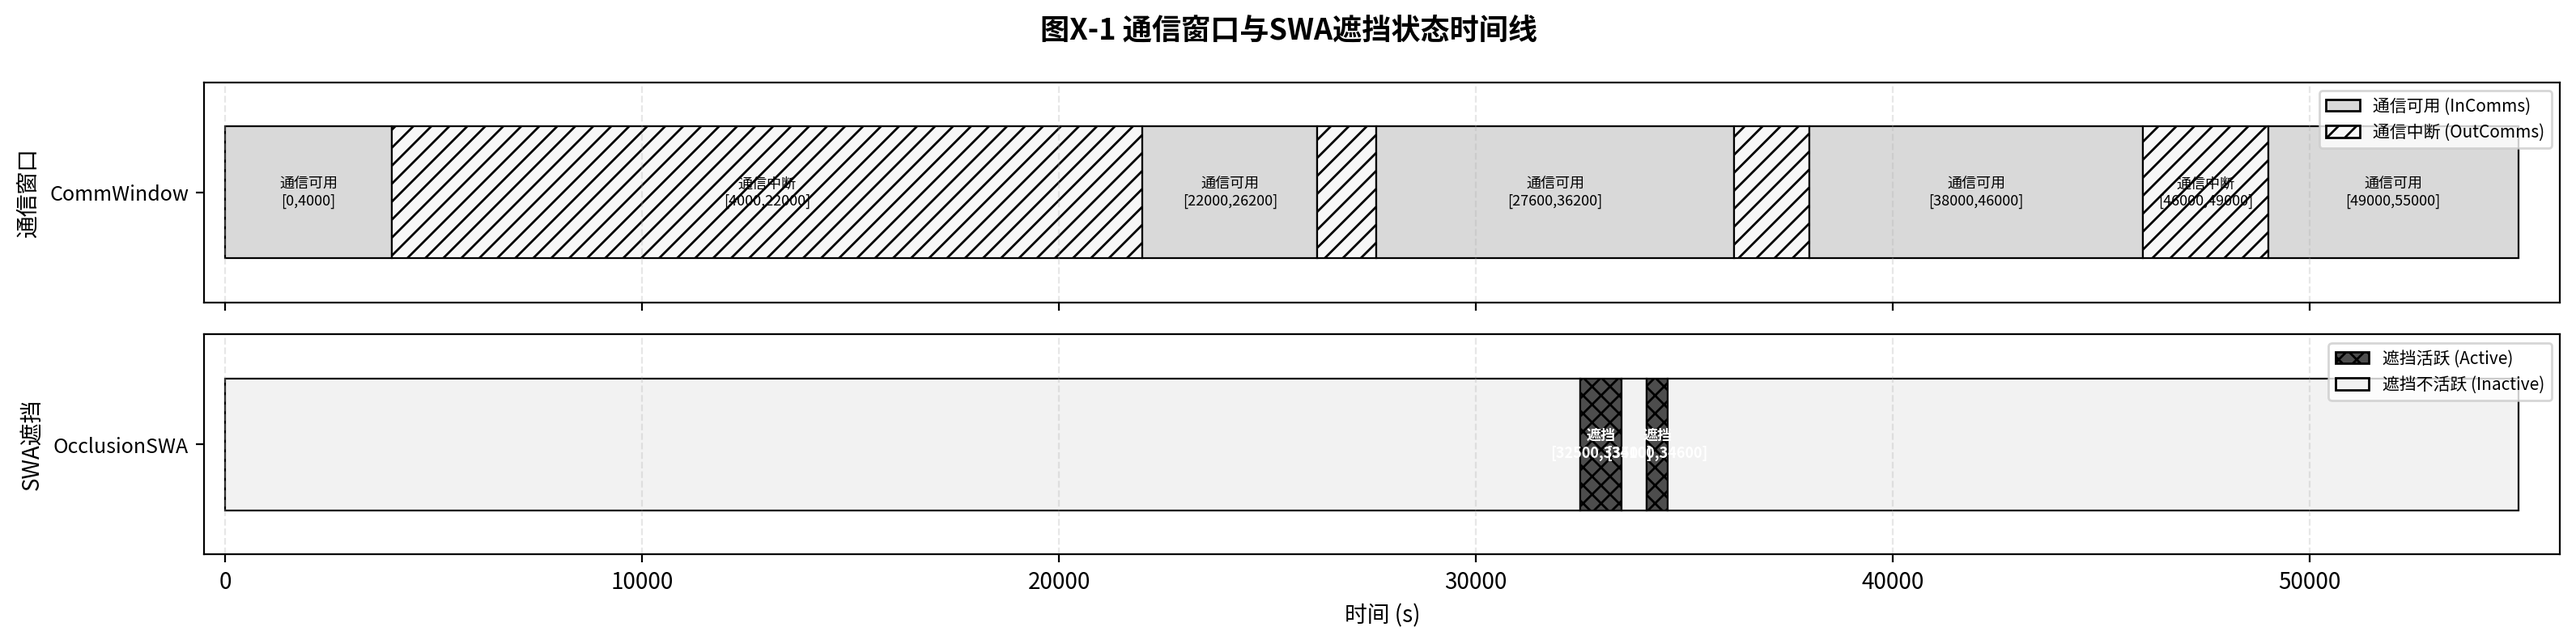
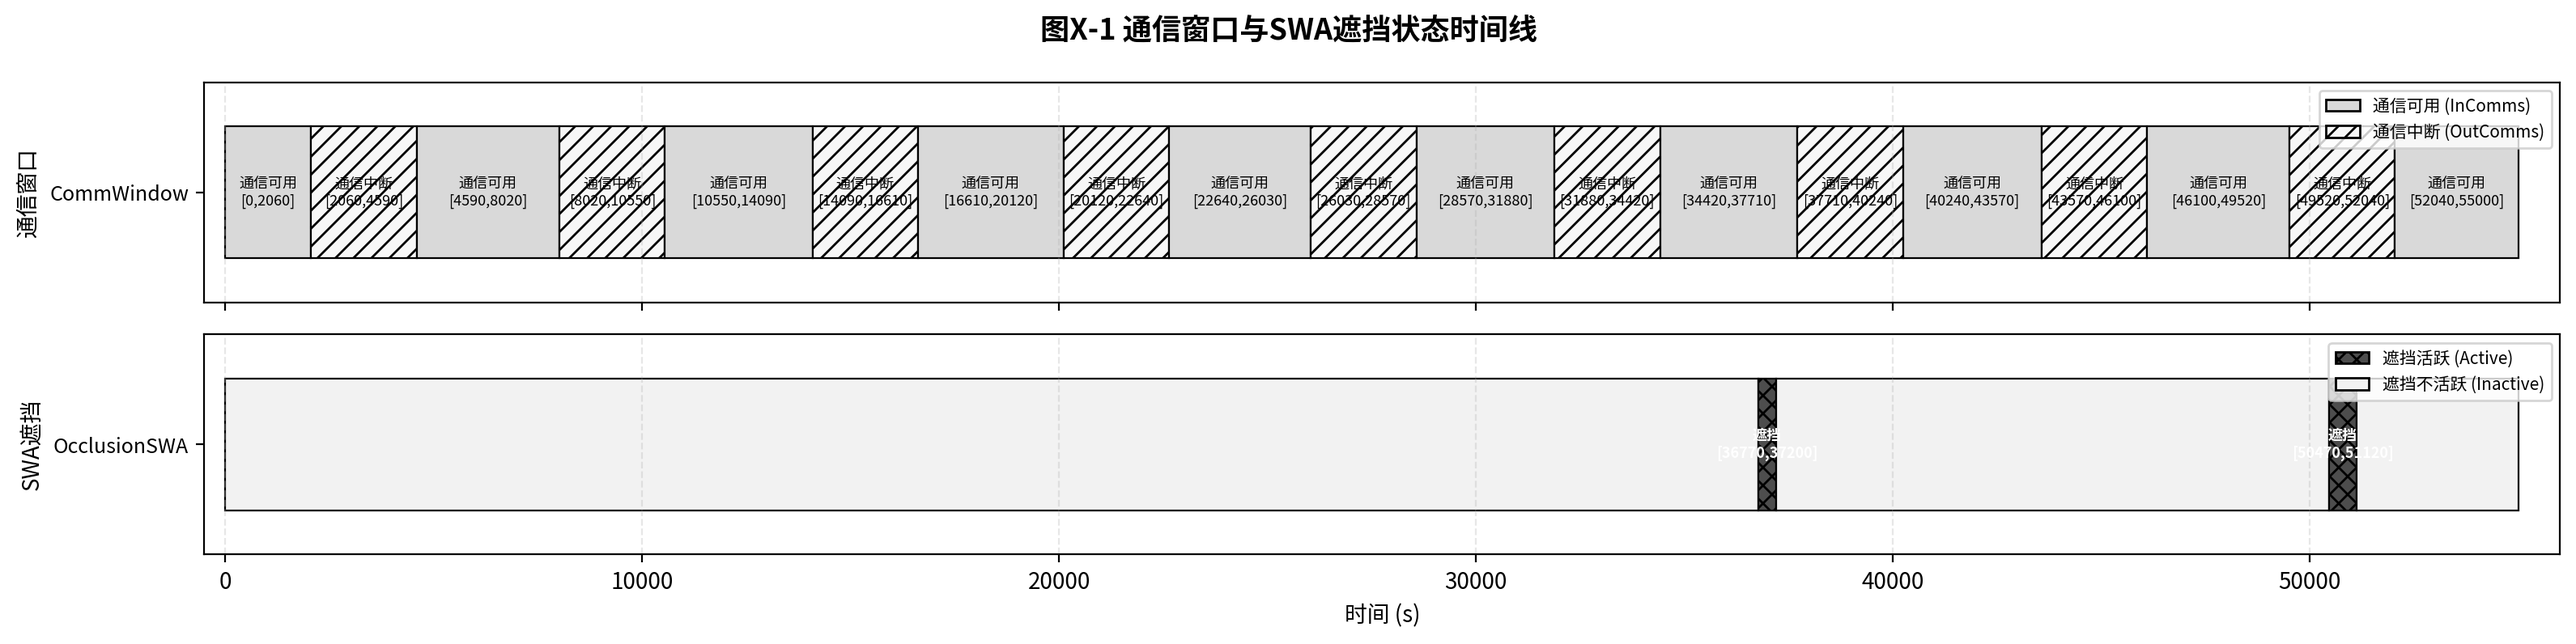
Update occlusion scenario with real TLE-computed windows
T0 = 2025-07-26 03:56:25 UTC (TLE epoch of NORAD 48274 & 50005)
Comm windows: SGP4 propagation + Earth-shadow LOS check (10s resolution)
SWA occlusion: SGP4 + DH FK + 5-degree angular beam criterion

Real occlusion event [36770,37200] at 14:09-14:16 UTC blocks Phase4
in comm window Vis7 [34420,37710]. Phase4 forced to next window
Vis8 [40240,43570], causing 66-minute delay.

All B&W Gantt charts regenerated with real orbital data.

diff --git a/examples/ArmMissionOcc/plot_bw_gantt.py b/examples/ArmMissionOcc/plot_bw_gantt.py
@@ -25,43 +25,45 @@ plt.rcParams['axes.unicode_minus'] = False
 # DATA  (occlusion-conflict scenario)
 # ════════════════════════════════════════
 comm = [
-    (0,4000,True),(4000,22000,False),(22000,26200,True),
-    (26200,27600,False),(27600,36200,True),(36200,38000,False),
-    (38000,46000,True),(46000,49000,False),(49000,55000,True),
+    (0,2060,True),(2060,4590,False),(4590,8020,True),(8020,10550,False),
+    (10550,14090,True),(14090,16610,False),(16610,20120,True),(20120,22640,False),
+    (22640,26030,True),(26030,28570,False),(28570,31880,True),(31880,34420,False),
+    (34420,37710,True),(37710,40240,False),
+    (40240,43570,True),(43570,46100,False),
+    (46100,49520,True),(49520,52040,False),(52040,55000,True),
 ]
 occ = [
-    (0,32500,False),(32500,33500,True),(33500,34100,False),
-    (34100,34600,True),(34600,55000,False),
+    (0,36770,False),(36770,37200,True),(37200,50470,False),
+    (50470,51120,True),(51120,55000,False),
 ]
 
-# EUROPA plan result
+# EUROPA plan result (TLE-computed, exact times from solver)
 plan = [
     ('BigArmRestart',   0,      980,   '1a'),
-    ('SmallArmRestart', 25200,  25350, '1b'),
-    ('WaitForMotion',   25350,  27600, 'W'),
-    ('Phase2',          27600,  31130, '2'),
-    ('Phase3',          31130,  32970, '3'),
-    ('IdleP3',          32970,  34600, 'W'),
-    ('Phase4',          34600,  35370, '4'),
-    ('Phase5',          35370,  35830, '5'),
-    ('IdleP56',         35830,  38000, 'W'),
-    ('Phase6',          38000,  39560, '6'),
+    ('SmallArmRestart', 2060,   2210,  '1b'),
+    ('Phase2Settings',  4590,   8120,  '2'),
+    ('WaitForMotion',   8120,   34420, 'W'),
+    ('Phase3',          34420,  36260, '3'),
+    ('IdleOcc',         36260,  40240, 'W'),
+    ('Phase4',          40240,  41010, '4'),
+    ('Phase5',          41010,  41470, '5'),
+    ('Phase6',          41470,  43030, '6'),
 ]
 
 sub_tasks = {
     '1a': [("大臂重启加电保温", 0, 980)],
-    '1b': [("小臂重启加电保温", 25200, 25350)],
-    '2': [("太阳帆板设置",27600,30010),("舱外相机设置",30010,30970),
-          ("禁止自主能源",30970,31010),("禁止电源保护",31010,31070),
-          ("禁止母线掉电",31070,31110),("禁止热控辐射",31110,31130)],
-    '3': [("小臂任务前重启",31130,31670),("大臂运动准备",31670,31870),
-          ("转移至中间构型",31870,32230),("大臂至舱I上方",32230,32670),
-          ("大臂至组合构型",32670,32970)],
-    '4': [("小臂至SWA 500mm",34600,34970),("小臂至SWA 300mm",34970,35370)],
-    '5': [("视觉精定位109mm",35370,35530),("小臂捕获SWA",35530,35830)],
-    '6': [("大臂给小臂断电",38000,38260),("小臂SWA上电",38260,38660),
-          ("释放转接件(a)",38660,38875),("视觉伺服105mm",38875,39015),
-          ("释放转接件(b)",39015,39260),("小臂手爪收拢",39260,39560)],
+    '1b': [("小臂重启加电保温", 2060, 2210)],
+    '2': [("太阳帆板设置",4590,7000),("舱外相机设置",7000,7960),
+          ("禁止自主能源",7960,8000),("禁止电源保护",8000,8060),
+          ("禁止母线掉电",8060,8100),("禁止热控辐射",8100,8120)],
+    '3': [("小臂任务前重启",34420,34960),("大臂运动准备",34960,35160),
+          ("转移至中间构型",35160,35520),("大臂至舱I上方",35520,35960),
+          ("大臂至组合构型",35960,36260)],
+    '4': [("小臂至SWA 500mm",40240,40610),("小臂至SWA 300mm",40610,41010)],
+    '5': [("视觉精定位109mm",41010,41170),("小臂捕获SWA",41170,41470)],
+    '6': [("大臂给小臂断电",41470,41730),("小臂SWA上电",41730,42130),
+          ("释放转接件(a)",42130,42345),("视觉伺服105mm",42345,42485),
+          ("释放转接件(b)",42485,42730),("小臂手爪收拢",42730,43030)],
 }
 
 phase_labels = {
@@ -232,9 +234,9 @@ def fig3_overall():
 
     # Zoom boxes
     zoom_specs = [
-        ((27400,31250),'Phase2'), ((31050,33100),'Phase3'),
-        ((32400,35500),'Phase4'), ((35200,35950),'Phase5'),
-        ((37800,39700),'Phase6'),
+        ((4400,8300),'Phase2'), ((34300,36400),'Phase3'),
+        ((40100,41100),'Phase4'), ((40950,41550),'Phase5'),
+        ((41400,43150),'Phase6'),
     ]
     for (xmin,xmax), _ in zoom_specs:
         ax_m.add_patch(mpatches.FancyBboxPatch((xmin,0.1), xmax-xmin, 9,
@@ -261,15 +263,15 @@ def fig3_overall():
     ax_o.set_ylabel('遮挡', fontsize=8); ax_o.set_xlabel('时间 (s)', fontsize=9)
     ax_o.set_yticks([]); ax_o.set_ylim(0,1)
     ax_o.grid(axis='x', alpha=0.3, ls='--')
-    ax_o.set_xlim(-500, 41000)
+    ax_o.set_xlim(-500, 48000)
 
     # ── Zoom panels ──
     zoom_phase_map = [
-        ('2', (27400,31250), "Phase2局部放大: 平台设置"),
-        ('3', (31050,33100), "Phase3局部放大: 大臂至组合"),
-        ('4', (32400,35500), "Phase4局部放大: 小臂至SWA ⚠"),
-        ('5', (35200,35950), "Phase5局部放大: 视觉捕获 ⚠"),
-        ('6', (37800,39700), "Phase6局部放大: 独立设置"),
+        ('2', (4400,8300), "Phase2局部放大: 平台设置"),
+        ('3', (34300,36400), "Phase3局部放大: 大臂至组合"),
+        ('4', (40100,41100), "Phase4局部放大: 小臂至SWA ⚠"),
+        ('5', (40950,41550), "Phase5局部放大: 视觉捕获 ⚠"),
+        ('6', (41400,43150), "Phase6局部放大: 独立设置"),
     ]
 
     for zi, (pid, (xmin, xmax), ztitle) in enumerate(zoom_phase_map):
